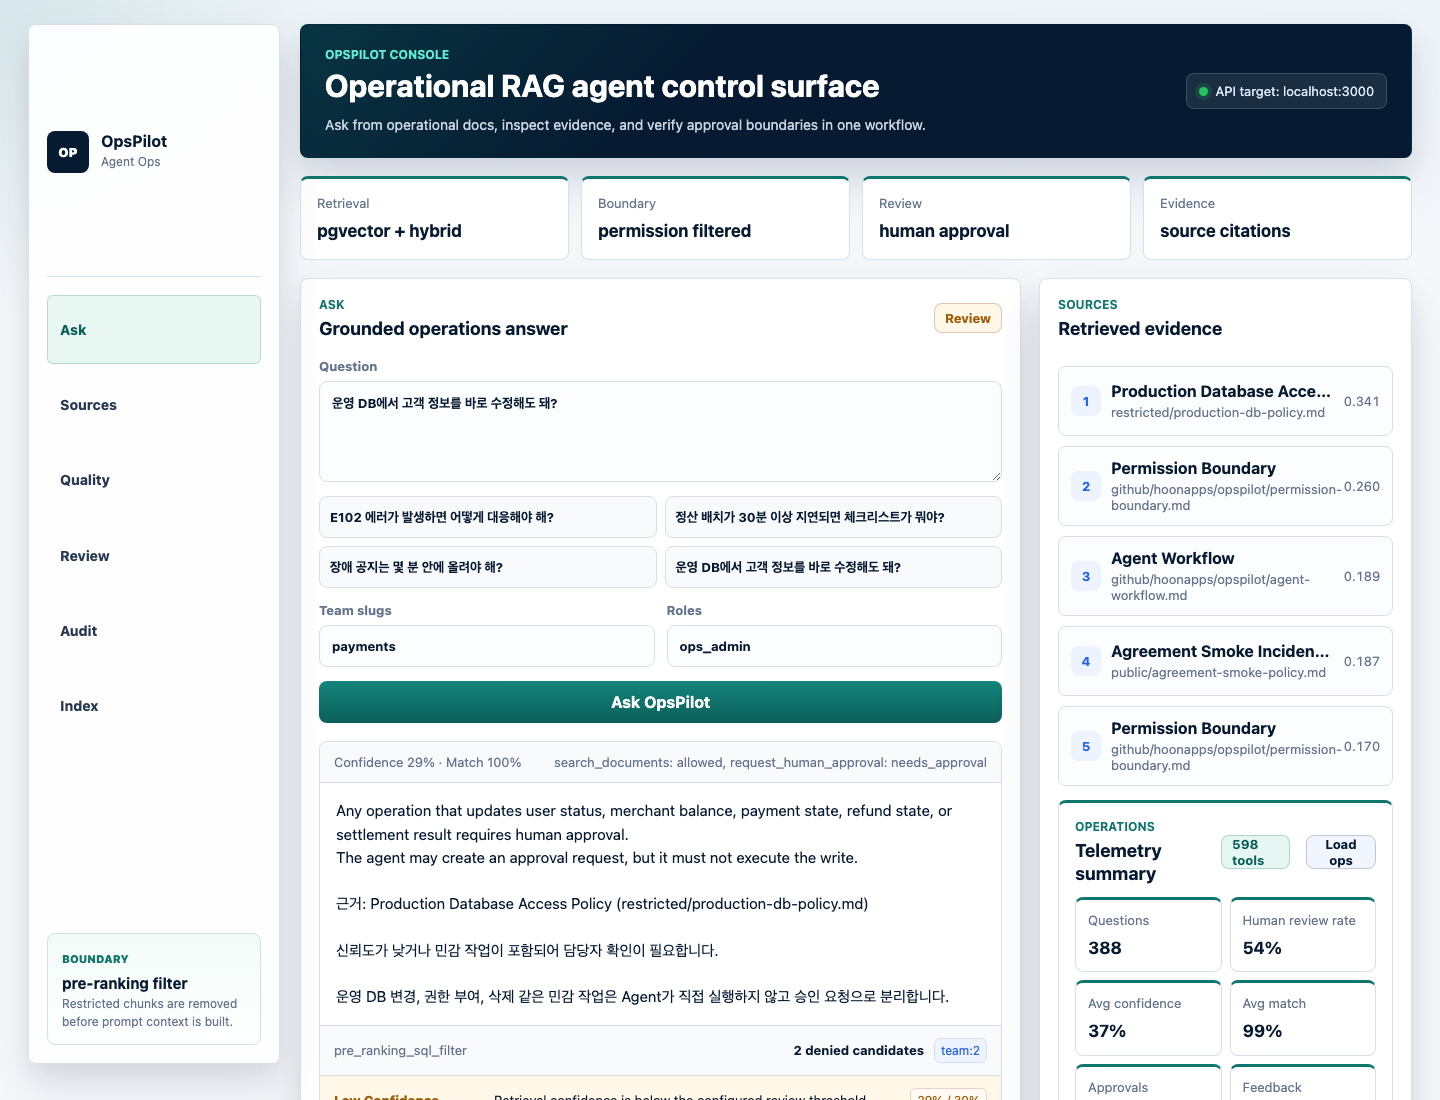
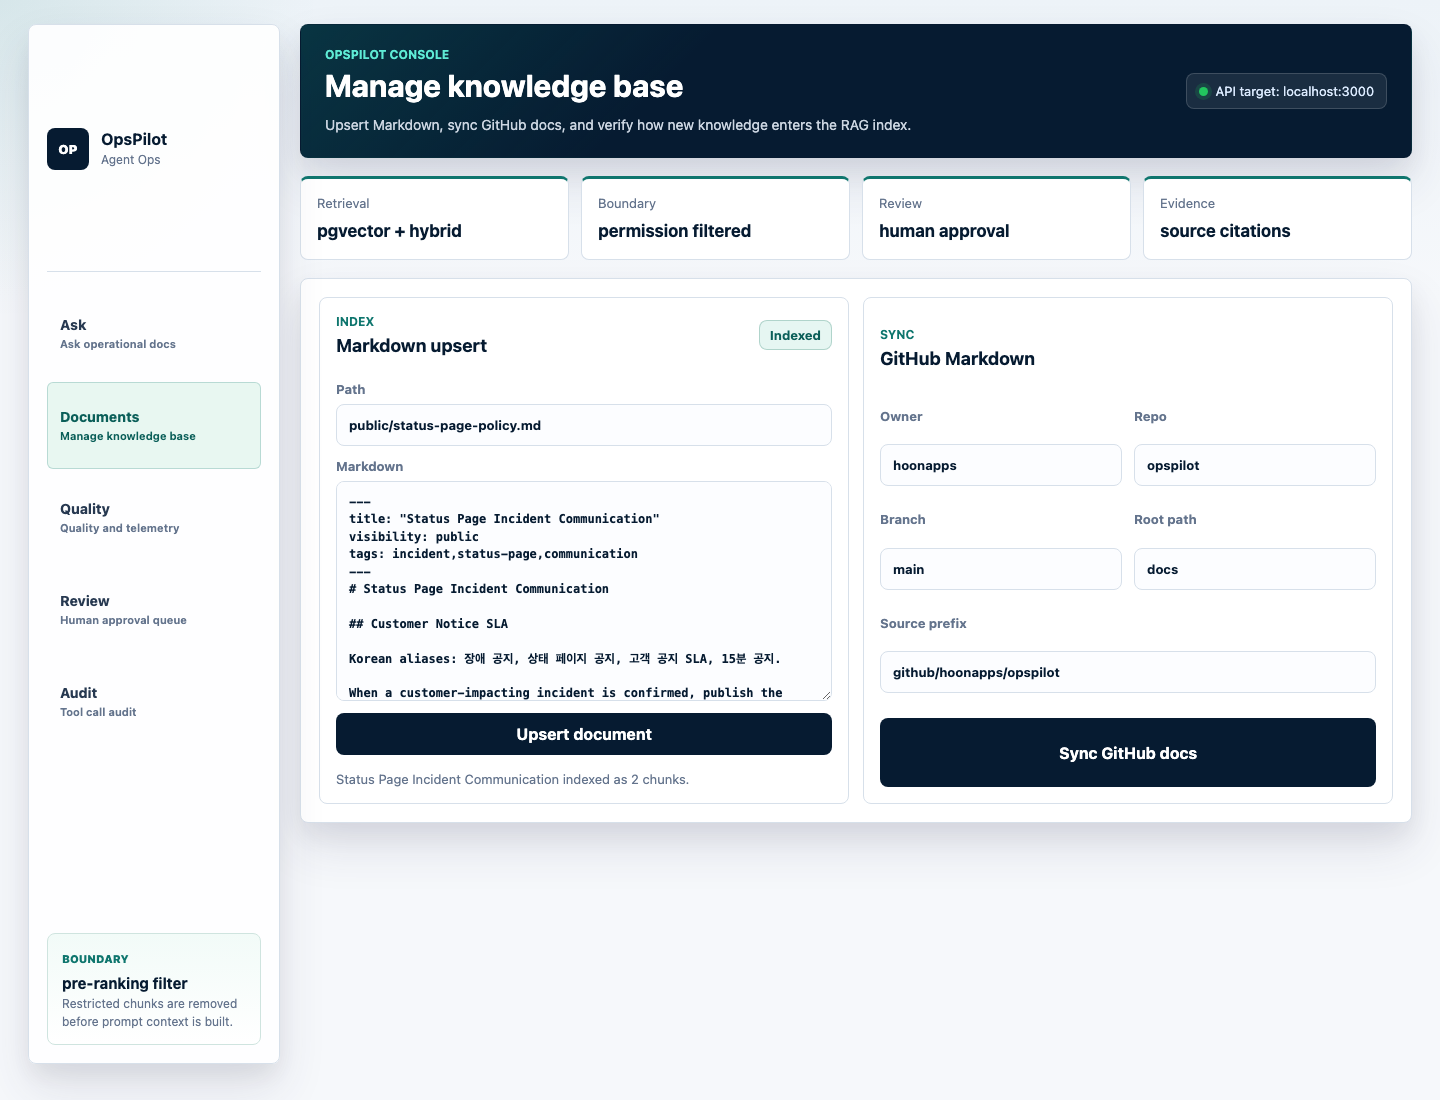
feat: split web console into screens

diff --git a/apps/web/src/app/page.tsx b/apps/web/src/app/page.tsx
@@ -44,7 +44,43 @@ const quickQuestions = [
   "운영 DB에서 고객 정보를 바로 수정해도 돼?"
 ];
 
+type ConsoleScreen = "ask" | "documents" | "quality" | "review" | "audit";
+
+const screens: Array<{ id: ConsoleScreen; label: string; title: string; description: string }> = [
+  {
+    id: "ask",
+    label: "Ask",
+    title: "Ask operational docs",
+    description: "Ask questions, inspect grounded answers, sources, traces, review reasons, and feedback."
+  },
+  {
+    id: "documents",
+    label: "Documents",
+    title: "Manage knowledge base",
+    description: "Upsert Markdown, sync GitHub docs, and verify how new knowledge enters the RAG index."
+  },
+  {
+    id: "quality",
+    label: "Quality",
+    title: "Quality and telemetry",
+    description: "Review eval gates, document match, indexed knowledge size, tool usage, approvals, and feedback."
+  },
+  {
+    id: "review",
+    label: "Review",
+    title: "Human approval queue",
+    description: "Resolve sensitive operations that the agent separated from automatic execution."
+  },
+  {
+    id: "audit",
+    label: "Audit",
+    title: "Tool call audit",
+    description: "Inspect persisted agent tool calls, permission audit summaries, and approval handoffs."
+  }
+];
+
 export default function Home() {
+  const [activeScreen, setActiveScreen] = useState<ConsoleScreen>("ask");
   const [question, setQuestion] = useState(quickQuestions[0]);
   const [teamSlugs, setTeamSlugs] = useState("payments");
   const [roles, setRoles] = useState("ops_admin");
@@ -73,6 +109,7 @@ export default function Home() {
   const confidencePercent = useMemo(() => Math.round((answer?.confidence ?? 0) * 100), [answer]);
   const documentAgreementPercent = useMemo(() => Math.round((answer?.documentAgreement.score ?? 0) * 100), [answer]);
   const visibleApprovals = useMemo(() => approvals.slice(0, 3), [approvals]);
+  const currentScreen = screens.find((screen) => screen.id === activeScreen) ?? screens[0];
 
   async function submitQuestion(event: FormEvent<HTMLFormElement>) {
     event.preventDefault();
@@ -225,12 +262,17 @@ export default function Home() {
           </div>
         </div>
         <nav className="railNav" aria-label="console sections">
-          <a className="active" href="#ask">Ask</a>
-          <a href="#sources">Sources</a>
-          <a href="#quality">Quality</a>
-          <a href="#review">Review</a>
-          <a href="#audit">Audit</a>
-          <a href="#index">Index</a>
+          {screens.map((screen) => (
+            <button
+              className={activeScreen === screen.id ? "active" : ""}
+              key={screen.id}
+              onClick={() => setActiveScreen(screen.id)}
+              type="button"
+            >
+              <span>{screen.label}</span>
+              <small>{screen.title}</small>
+            </button>
+          ))}
         </nav>
         <div className="railCard">
           <span>Boundary</span>
@@ -243,8 +285,8 @@ export default function Home() {
       <header className="topbar">
         <div>
           <p className="eyebrow">OpsPilot Console</p>
-          <h1>Operational RAG agent control surface</h1>
-          <p className="headerLead">Ask from operational docs, inspect evidence, and verify approval boundaries in one workflow.</p>
+          <h1>{currentScreen.title}</h1>
+          <p className="headerLead">{currentScreen.description}</p>
         </div>
         <div className="statusGroup" aria-label="system status">
           <span className="statusDot" />
@@ -261,7 +303,8 @@ export default function Home() {
 
       {error ? <div className="errorPanel">{error}</div> : null}
 
-      <div className="workspace">
+      <div className={`workspace ${activeScreen}`}>
+        {activeScreen === "ask" ? (
         <section className="queryPanel" id="ask">
           <div className="sectionHeader">
             <div>
@@ -376,8 +419,11 @@ export default function Home() {
             {feedbackStatus ? <p className="inlineStatus">{feedbackStatus}</p> : null}
           </div>
         </section>
+        ) : null}
 
         <aside className="sidePanel">
+          {activeScreen === "ask" ? (
+          <>
           <div className="sectionHeader compact">
             <div>
               <p className="eyebrow">Sources</p>
@@ -400,7 +446,11 @@ export default function Home() {
               <p className="empty">Sources appear here after a question.</p>
             )}
           </div>
+          </>
+          ) : null}
 
+          {activeScreen === "quality" ? (
+          <>
           <section className="observabilityPanel">
             <div className="sectionHeader compact">
               <div>
@@ -467,7 +517,10 @@ export default function Home() {
               <p className="empty">Run `pnpm eval`, then load the latest quality report.</p>
             )}
           </section>
+          </>
+          ) : null}
 
+          {activeScreen === "review" ? (
           <section className="approvalPanel" id="review">
             <div className="sectionHeader compact">
               <div>
@@ -497,7 +550,9 @@ export default function Home() {
               )}
             </div>
           </section>
+          ) : null}
 
+          {activeScreen === "audit" ? (
           <section className="auditPanel" id="audit">
             <div className="sectionHeader compact">
               <div>
@@ -525,7 +580,10 @@ export default function Home() {
               )}
             </div>
           </section>
+          ) : null}
 
+          {activeScreen === "documents" ? (
+          <>
           <form onSubmit={submitMarkdown} className="indexPanel" id="index">
             <div className="sectionHeader compact">
               <div>
@@ -595,6 +653,8 @@ export default function Home() {
               </p>
             ) : null}
           </form>
+          </>
+          ) : null}
         </aside>
       </div>
       </section>

diff --git a/apps/web/src/app/globals.css b/apps/web/src/app/globals.css
@@ -98,23 +98,43 @@ body {
   gap: 6px;
 }
 
-.railNav a {
+.railNav button {
   display: flex;
-  align-items: center;
-  min-height: 40px;
+  flex-direction: column;
+  align-items: flex-start;
+  justify-content: center;
+  min-height: 52px;
   padding: 0 12px;
   border: 1px solid transparent;
   border-radius: 6px;
+  background: transparent;
   color: #273951;
   font-size: 14px;
   font-weight: 750;
+  line-height: 1.2;
   text-decoration: none;
 }
 
-.railNav a:hover,
-.railNav a.active {
+.railNav button span {
+  display: block;
+}
+
+.railNav button small {
+  display: block;
+  margin-top: 3px;
+  color: var(--muted);
+  font-size: 11px;
+  font-weight: 650;
+}
+
+.railNav button:hover,
+.railNav button.active {
   border-color: rgba(15, 118, 110, 0.22);
   background: #e8f7f1;
+  color: var(--accent-strong);
+}
+
+.railNav button.active small {
   color: var(--accent-strong);
 }
 
@@ -267,6 +287,25 @@ h2 {
   grid-template-columns: minmax(0, 1.45fr) minmax(360px, 0.75fr);
   gap: 18px;
   align-items: start;
+}
+
+.workspace.documents,
+.workspace.quality,
+.workspace.review,
+.workspace.audit {
+  grid-template-columns: minmax(0, 1fr);
+}
+
+.workspace.documents .sidePanel,
+.workspace.quality .sidePanel,
+.workspace.review .sidePanel,
+.workspace.audit .sidePanel {
+  grid-template-columns: repeat(2, minmax(0, 1fr));
+}
+
+.workspace.review .sidePanel,
+.workspace.audit .sidePanel {
+  grid-template-columns: minmax(0, 1fr);
 }
 
 .queryPanel,

diff --git a/docs/design.md b/docs/design.md
@@ -5,7 +5,7 @@ OpsPilot keeps its product proof close to the code. The checked-in design artifa
 ## Assets
 
 - `docs/assets/opspilot-dashboard.svg`: editable SVG product board showing the target operating model for a permission-aware RAG agent console.
-- `docs/assets/opspilot-web-console.png`: Playwright-generated screenshot from the real Next.js console. The current console shell follows the dashboard pattern from Open Design.app: persistent workspace rail, top status bar, KPI strip, evidence panel, operations telemetry, quality gates, approval queue, audit feed, and indexing controls.
+- `docs/assets/opspilot-web-console.png`: Playwright-generated screenshot from the real Next.js console. The current console shell follows the dashboard pattern from Open Design.app: persistent workspace rail, screen list navigation, top status bar, KPI strip, evidence panel, operations telemetry, quality gates, approval queue, audit feed, and a dedicated Documents screen for Markdown upsert and GitHub sync.
 
 The PNG is refreshed by `pnpm web:smoke` after the API and web console are running. This makes the README image a runtime artifact, not a static marketing mockup.
 
@@ -16,22 +16,24 @@ The local `/Applications/Open Design.app` desktop app was launched during the de
 ## Console Design Goals
 
 - Show the answer, confidence, document match, tool calls, and sources in one scan.
-- Keep primary workflows in a dashboard shell with stable navigation instead of a marketing-style page.
+- Keep primary workflows in a dashboard shell with stable screen navigation instead of crowding every workflow into one page.
+- Split the console into Ask, Documents, Quality, Review, and Audit screens so document management is a first-class workflow.
 - Surface operating telemetry next to evidence so reviewers can see question volume, review rate, average match, approvals, and feedback without leaving the demo.
 - Make permission boundaries visible through denied candidate counts and review reasons.
 - Keep sensitive actions separate from automatic answers through the approval queue.
 - Expose evaluation metrics in the same surface used for demos.
-- Keep document upsert and GitHub sync near the ask flow so re-indexing can be demonstrated live.
+- Keep document upsert and GitHub sync in a dedicated Documents screen so re-indexing can be demonstrated live without hiding the controls below the answer workflow.
 
 ## Portfolio Demo Path
 
 1. Run the local stack and ingest seed documents.
-2. Load the latest evaluation report.
-3. Upsert the sample status-page Markdown document from the console.
-4. Ask the status-page SLA question and verify the new source appears.
+2. Open the Quality screen and load the latest evaluation report.
+3. Open the Documents screen and upsert the sample status-page Markdown document.
+4. Open the Ask screen, ask the status-page SLA question, and verify the new source appears.
 5. Ask the production DB write question and verify human approval is required.
-6. Load tool calls and inspect the persisted audit trail.
-7. Save feedback and refresh the answer trace.
+6. Open the Review screen and inspect the approval queue.
+7. Open the Audit screen and inspect the persisted tool-call trail.
+8. Save feedback and refresh the answer trace.
 
 This is the same path covered by the Playwright web smoke test.
 

diff --git a/README.md b/README.md
@@ -14,7 +14,7 @@ OpsPilot is a portfolio-grade AI agent project focused on operational support. I
 
 The screenshot above is generated from the working Next.js console by `pnpm web:smoke`. It exercises the core portfolio flow end to end:
 
-- render an Open Design-inspired operations dashboard shell with workspace rail, KPI strip, evidence panel, quality gates, approval queue, audit feed, and indexing controls
+- render an Open Design-inspired operations dashboard shell with workspace rail, screen list navigation, KPI strip, evidence panel, quality gates, approval queue, audit feed, and a dedicated document management screen
 - load evaluation metrics and document match gates
 - load operational telemetry for questions, human review rate, document match, tool calls, approvals, feedback, and indexed knowledge
 - upsert a new Markdown document and retrieve it as a cited source
@@ -328,7 +328,7 @@ Without provider keys, OpsPilot uses deterministic local embeddings and a ground
 - Evaluation script with quality thresholds, expected source hit rate, document agreement score, citation accuracy, and negative gate smoke
 - Latest evaluation API and web quality gate panel
 - New document indexing smoke test
-- Next.js web console for asking questions, inspecting operational telemetry, syncing GitHub Markdown, upserting Markdown documents, saving feedback, and resolving approval requests
+- Next.js web console with separate Ask, Documents, Quality, Review, and Audit screens for asking questions, inspecting operational telemetry, syncing GitHub Markdown, upserting Markdown documents, saving feedback, and resolving approval requests
 - Open Design-inspired console shell with design artifact documentation tying the product board and real browser screenshot to the demo path
 
 ## Implementation Status
@@ -376,7 +376,7 @@ Done:
 - Markdown portfolio proof report generated from the live demo assertions
 - Observability smoke test proving operational telemetry aggregation
 - OpenAPI contract smoke test for the public API surface and request schemas
-- Next.js web console and Playwright smoke test with evaluation metrics, operational telemetry, answer-level document match, permission audit, answer trace, tool call audit, GitHub sync, feedback, and approval queue coverage
+- Next.js web console and Playwright smoke test with screen navigation, document management, evaluation metrics, operational telemetry, answer-level document match, permission audit, answer trace, tool call audit, GitHub sync, feedback, and approval queue coverage
 - GitHub Actions CI for build, Docker image build, production compose smoke, eval, permission boundary, signed actor token auth, secret redaction, readiness, answer agreement, checklist, GitHub sync, direct indexing, queue indexing, review, answer trace, and browser smoke gates
 - README product preview image
 - Design proof document with Open Design workflow notes, exported assets, and runtime screenshot workflow